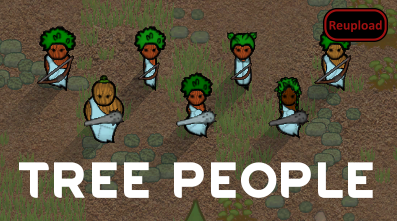
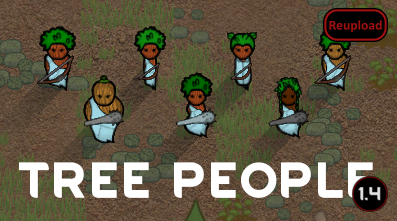
Last update, added end-of-life message

Changed region(s): [[0.8766, 0.7873, 0.9975, 0.9774]]

diff --git a/README.md b/README.md
@@ -7,7 +7,7 @@ https://steamcommunity.com/sharedfiles/filedetails/?id=1403998409
 
 - No longer permanent enemy of the Empire
 
-![Image](https://i.imgur.com/pufA0kM.png)
+![Image](https://i.imgur.com/KFjAmff.png)
 
 	
 ![Image](https://i.imgur.com/Z4GOv8H.png)
@@ -33,12 +33,13 @@ B18 EPOE Patch https://steamcommunity.com/sharedfiles/filedetails/?id=1406741164
 
 -  See if the the error persists if you just have this mod and its requirements active.
 -  If not, try adding your other mods until it happens again.
--  Post your error-log using https://steamcommunity.com/workshop/filedetails/?id=818773962]HugsLib and command Ctrl+F12
+-  Post your error-log using https://steamcommunity.com/workshop/filedetails/?id=818773962]HugsLib or the standalone https://steamcommunity.com/sharedfiles/filedetails/?id=2873415404]Uploader and command Ctrl+F12
 -  For best support, please use the Discord-channel for error-reporting.
 -  Do not report errors by making a discussion-thread, I get no notification of that.
 -  If you have the solution for a problem, please post it to the GitHub repository.
+-  Use https://github.com/RimSort/RimSort/releases/latest]RimSort to sort your mods
 
 
 
+https://steamcommunity.com/sharedfiles/filedetails/changelog/2568676212]![Image](https://img.shields.io/github/v/release/emipa606/TreePeople?label=latest%20version&style=plastic&color=9f1111&labelColor=black)
 
-https://steamcommunity.com/sharedfiles/filedetails/changelog/2568676212]Last updated 2023-01-09
